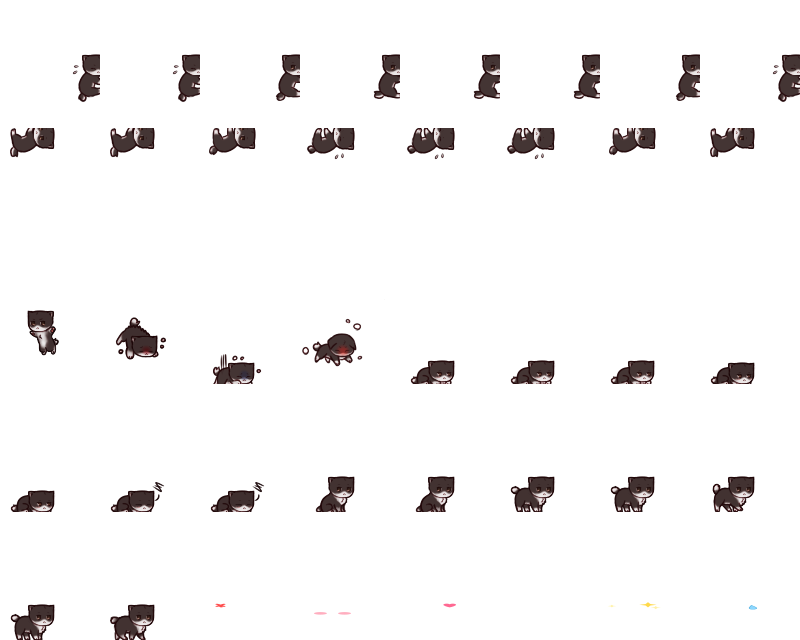
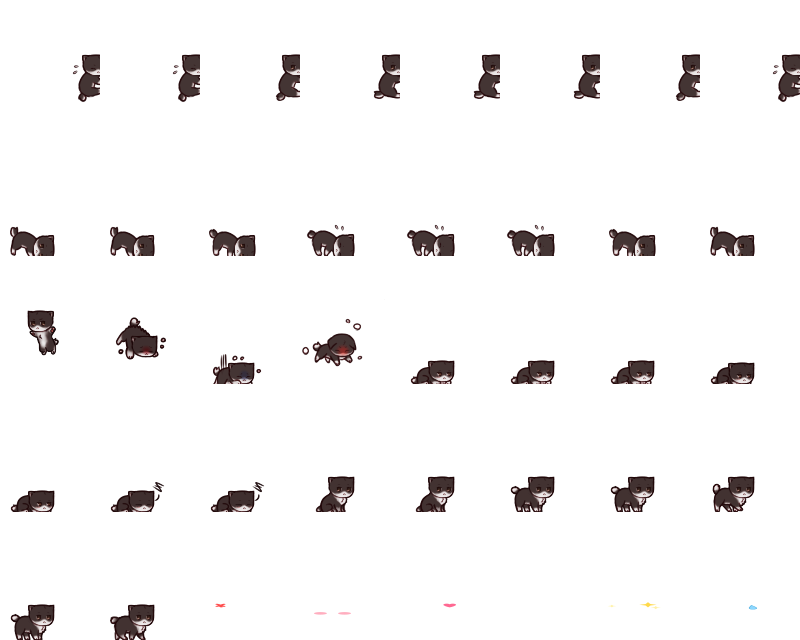
fix(pet): 攀爬的切图与几何——CRAWL 倒挂、贴墙与天花板各按素材实测留白
按"待机/爬行/跳跃对不上、吸附位置不对"逐项查，是三个错：

1. **CRAWL 行没垂直翻转**。素材画的是正着横躺的猫（头在左上、腿在左下），
   用在"倒挂在天花板下"必须翻过来——参考项目的注释也是这么说的
   （"垂直翻转：因为是倒挂着的，头朝下"），它代码里那个 false 是它自己的 bug。
   改在切图期翻，运行时就不必再管朝向，锚点语义也和别的行统一（内容贴帧底）。

2. **天花板锚点算反了**。宠物是倒挂在窗口上沿**之下**的，ceilingY 该是
   rect.y + 留白，原来写成减——实测宠物飘到上沿以上（松手在 208，而上沿是 250）。

3. **留白被当成了一个统一的量**。实测五只猫的 CLIMB 侧向留白 49~57px、
   CRAWL 纵向 31~43px（帧高 128），**各不相同**；用一个 gapRatio = 0.15 的
   结果是爬墙时压在窗口上 36px。改成切图时量出来写进清单的 perchGaps，
   渲染器经 getLayout() 报给驱动，驱动据此覆盖 PERCH_DEFAULTS。
   范围哨兵留在切图期：数值跑出合理区间当场报错，而不是等运行时看见宠物
   飘在窗口外面。

顺带修 shouldLetGo——它算目标位置时原来不带留白补偿，与 attachPerch 差一个
缝隙，scale 一大就会把刚吸附的宠物判成"已脱离"。

实测（nekojapan，wall=0.383 ceiling=0.242）：
  吸附到左墙 x=472           留白 49×2.2 = 108
  爬到顶 松手 @(1980, 318)   250 + 282×0.242 = 318，内容顶边正好贴上沿
  落地 @(1980, 1352)         落回原地面线

diff --git a/packages/pet-core/src/behavior/perch.ts b/packages/pet-core/src/behavior/perch.ts
@@ -10,12 +10,21 @@
  * CRAWL 行是 **63 宽 × 40 高**（横扁）。也就是说这两行**本来就是画成爬墙/爬天花板的**，
  * 不需要任何旋转——渲染层只要把它们摆到对应位置就行。
  *
- * ## 锚点的语义在攀爬时会变
+ * ## 锚点的语义在攀爬时会变，而且**每一行变得不一样**
  *
- * 平地上锚点 = 脚底中心，`(x, y)` 就是"宠物站在哪"。
- * 爬墙时锚点仍指同一个点，但**竖长姿势的内容底边距锚点有一段空隙**（CLIMB 行的底边
- * 在格内 y≈108，而全表地线是 127）——那 19px 是素材自己留的，缩放后按比例放大。
- * 所以爬墙时宠物与墙面之间会有约 `19 × scale` 的缝，`PERCH_GAP_RATIO` 就是用来补它的。
+ * 平地上锚点 = 脚底中心，`(x, y)` 就是"宠物站在哪"，内容也正好贴到帧底。
+ * 攀爬的两行则各自留了大片空白，**两行的留白还不一样**——这是实测出来的
+ * （`sheet-rows.mjs` 量包围盒 + 逐帧反查内容位置），不是猜的：
+ *
+ *   | 行    | 内容在帧内的位置        | 距锚点（帧底中心） | 用途 |
+ *   | ----- | ----------------------- | ------------------ | ---- |
+ *   | CLIMB | 右边贴帧右缘，竖向 36×62 | 右侧 55px / 底 18px | 贴墙 |
+ *   | CRAWL | 切图时已垂直翻转，贴帧底 | 顶部 39px          | 倒挂 |
+ *
+ * **早先这里只有一个 `gapRatio = 0.15`**，是把"素材留白"当成了一个统一的量——
+ * 结果爬墙时宠物压在窗口上 36px、爬到顶转爬行时整个飘到窗口上沿以上
+ * （`ceilingY` 的符号也写反了：宠物在窗口**下方**倒挂，锚点该比上沿大）。
+ * 两个方向、两个量，一个比例表达不了。
  *
  * 约束（务必保持）：本包为纯 TS，禁止 import 任何运行时依赖。
  */
@@ -48,18 +57,29 @@ export interface PerchConfig {
   /** 爬升速度（像素/秒）。比走路慢：爬是费力的事，比走路还快会显得轻飘 */
   climbSpeed: number
   /**
-   * 爬行时身体与墙面之间留的空隙，**按模型高度的比例**给。
+   * 爬墙时**身体侧边与墙面的缝隙**，按模型高度（画布高 × 缩放）的比例给。
    *
-   * 实测 CLIMB 行的内容底边距全表地线 19/128 ≈ 0.148，取这个量级即可贴身。
-   * 用比例而不是像素：换一只体型不同的宠物不用重新调。
+   * 实测 `shimeji_*.png` 的 CLIMB 行：内容右边缘距锚点 55px，帧高 128 → 0.43。
+   * 五只猫是同一作者同一规格画的，共用这个值；`import-shimeji.mjs` 切图时会**断言**
+   * 这一点，素材换了会在导入期报错，而不是等到运行时才发现宠物压在窗口上。
    */
-  gapRatio: number
+  wallGapRatio: number
+  /**
+   * 爬天花板时**背与天花板的缝隙**，同样按模型高度比例。
+   *
+   * CRAWL 行在切图时已垂直翻转（见 `import-shimeji.mjs` 的 `flipY`），内容顶边
+   * 距锚点 39px / 128 → 0.30。
+   *
+   * 注意方向：宠物是**倒挂在窗口上沿之下**的，所以锚点比上沿**大**（见 `ceilingY`）。
+   */
+  ceilingGapRatio: number
 }
 
 export const PERCH_DEFAULTS: PerchConfig = {
   attachDistance: 24,
   climbSpeed: 45,
-  gapRatio: 0.15,
+  wallGapRatio: 0.43,
+  ceilingGapRatio: 0.3,
 }
 
 /**
@@ -92,15 +112,22 @@ export function tryAttach(
 
 /** 某一侧墙面在画布上的 x（宠物锚点该贴的位置） */
 export function wallX(rect: PerchRect, side: PerchSide, cfg: PerchConfig = PERCH_DEFAULTS, modelHeight = 0): number {
-  const gap = modelHeight * cfg.gapRatio
+  const gap = modelHeight * cfg.wallGapRatio
   // 左墙：宠物在墙的**外侧**（左边），所以锚点往左挪一个缝隙；
   // 右墙反之。这个方向搞反的话宠物会整个压在窗口内容上。
   return side === 'left' ? rect.x - gap : rect.x + rect.width + gap
 }
 
-/** 天花板（窗口上边缘）在画布上的 y —— 宠物贴在它上方 */
+/**
+ * 天花板（窗口上边缘）对应的锚点 y —— 宠物**倒挂在上沿之下**。
+ *
+ * 所以是**加**不是减：素材的 CRAWL 行在切图时已垂直翻转成"内容贴帧底"，
+ * 锚点即内容底边，自然落在上沿下方一个"内容高度"处。
+ * 早先写成 `rect.y - gap` 时，宠物会飘到窗口上沿**以上**（实测在 208，
+ * 而上沿是 250）。
+ */
 export function ceilingY(rect: PerchRect, cfg: PerchConfig = PERCH_DEFAULTS, modelHeight = 0): number {
-  return rect.y - modelHeight * cfg.gapRatio
+  return rect.y + modelHeight * cfg.ceilingGapRatio
 }
 
 export interface ClimbStep {
@@ -173,15 +200,19 @@ export function shouldLetGo(
   petY: number,
   cfg: PerchConfig = PERCH_DEFAULTS,
   minHeight = 120,
+  modelHeight = 0,
 ): boolean {
   if (!state) return false
   if (!rect || rect.height < minHeight) return true
 
-  if (state.kind === 'wall') {
-    // 墙面跑了：宠物贴着的那条边已经不在脚下
-    const target = wallX(rect, state.side, cfg)
-    return Math.abs(petX - target) > cfg.attachDistance * 4
-  }
-  // 天花板上：窗口整个移开了
-  return petY < rect.y - rect.height || petY > rect.y + cfg.attachDistance * 4
+  // 两条边共用一个判据：**宠物离它该在的那条线太远了**。
+  //
+  // `modelHeight` 必须与 `attachPerch` 传的一致：两边补偿不同的话，宠物刚吸附
+  // 就会被判成"已脱离"——差值恰好是一个缝隙，而阈值只有 96px。
+  const target =
+    state.kind === 'wall'
+      ? wallX(rect, state.side, cfg, modelHeight)
+      : ceilingY(rect, cfg, modelHeight)
+  const dist = state.kind === 'wall' ? Math.abs(petX - target) : Math.abs(petY - target)
+  return dist > cfg.attachDistance * 4
 }

diff --git a/packages/pet-core/src/model/sprite-manifest.ts b/packages/pet-core/src/model/sprite-manifest.ts
@@ -101,6 +101,22 @@ export interface SpriteManifest {
   /** 口型档位（对应图集条目名），档数由模型自定 */
   mouthLevels?: string[]
   hitAreas?: SpriteHitArea[]
+  /**
+   * 攀附几何：CLIMB / CRAWL 两行素材留白占帧高的比例。
+   *
+   * **每只宠物的留白都不一样**——素材是作者逐帧画的。实测五只 Shimeji 猫的
+   * CLIMB 侧向留白 49~57px、CRAWL 纵向 31~43px（帧高 128）。几何侧用一个统一
+   * 比例的话最坏差 6px，乘上缩放就是屏幕上看得见的偏移（宠物压在窗口上、
+   * 或者离墙悬着）。所以由**切图工具量出来写进清单**，而不是在几何代码里猜。
+   *
+   * 省略时由 `pet-core` 的 `PERCH_DEFAULTS` 兜底——没有攀爬动作的模型用不上。
+   */
+  perchGaps?: {
+    /** 爬墙：内容侧边距锚点的比例（内容在锚点外侧多远） */
+    wall: number
+    /** 爬天花板：内容顶边距锚点的比例（锚点在内容下方多远） */
+    ceiling: number
+  }
 }
 
 // ---------------------------------------------------------------------------
@@ -142,7 +158,7 @@ const isFiniteNumber = (v: unknown): v is number =>
 /** 顶层与动画对象的已知字段，用于拒绝夹带 */
 const MANIFEST_KEYS = new Set([
   "id", "rendererType", "pixelArt", "canvas", "anchor", "atlas", "atlasJson",
-  "slots", "animations", "mouthLevels", "hitAreas",
+  "slots", "animations", "mouthLevels", "hitAreas", "perchGaps",
 ])
 const ANIMATION_KEYS = new Set([
   "group", "index", "kind", "source", "fps", "frames", "params", "next",
@@ -189,6 +205,25 @@ export function validateSpriteManifest(
   }
   if (input.pixelArt !== undefined && typeof input.pixelArt !== "boolean") {
     errors.push({ path: "pixelArt", message: "pixelArt 必须是布尔值" })
+  }
+
+  // ---- perchGaps（可选）----
+  // 比例必须落在 (0, 1]：它是「留白 ÷ 帧高」。0 表示内容贴着锚点，
+  // 大于 1 表示留白比整个画布还高——两种都说明切图那边算错了，
+  // 与其让它传到几何里去，不如在这里拦下。
+  if (input.perchGaps !== undefined) {
+    const pg = input.perchGaps
+    if (!isPlainObject(pg) || !isFiniteNumber(pg.wall) || !isFiniteNumber(pg.ceiling)) {
+      errors.push({
+        path: "perchGaps",
+        message: "perchGaps 必须是 { wall, ceiling } 两个有限数值",
+      })
+    } else if (pg.wall <= 0 || pg.wall > 1 || pg.ceiling <= 0 || pg.ceiling > 1) {
+      errors.push({
+        path: "perchGaps",
+        message: `perchGaps 的两项都应在 (0, 1] 内，收到 wall=${pg.wall} ceiling=${pg.ceiling}`,
+      })
+    }
   }
 
   // ---- canvas 与 anchor ----

diff --git a/apps/windows/src/renderer/pet/behavior/PetWanderDriver.ts b/apps/windows/src/renderer/pet/behavior/PetWanderDriver.ts
@@ -86,7 +86,11 @@ export class PetWanderDriver {
   private readonly renderer: PetRendererProvider
   private readonly onActivity: (pose: PetPose) => void
   private readonly config: AmbientConfig
-  private readonly perchConfig: PerchConfig
+  /**
+   * 攀附参数。**不是 readonly**：素材实测的留白比例（`layout.perchGaps`）会覆盖
+   * 兜底值，见 `refreshLayout`。
+   */
+  private perchConfig: PerchConfig
   private readonly rand: () => number
 
   private rafId: number | null = null
@@ -179,7 +183,7 @@ export class PetWanderDriver {
   setPerchRect(rect: PerchRect | null): void {
     this.perchRect = rect
     if (!this.perch) return
-    if (shouldLetGo(this.perch, rect, this.x, this.y, this.perchConfig, this.minPerchHeight())) {
+    if (shouldLetGo(this.perch, rect, this.x, this.y, this.perchConfig, this.minPerchHeight(), this.modelHeight)) {
       this.releasePerch('目标不可用')
     }
   }
@@ -187,7 +191,18 @@ export class PetWanderDriver {
   /** 从渲染器读一次布局（缩放/锚点/模型高度）。攀爬的缝隙与判定高度都依赖它 */
   private refreshLayout(): void {
     const layout = this.renderer.getLayout?.()
-    if (layout && layout.scale > 0) this.modelHeight = layout.modelHeight
+    if (!layout || !(layout.scale > 0)) return
+    this.modelHeight = layout.modelHeight
+    // **素材实测的留白比例优先于兜底值**：每只宠物都不一样（实测五只 Shimeji 猫的
+    // CLIMB 侧向留白 49~57px），用统一常量最坏差 6px、乘缩放就是屏幕上看得见的偏移。
+    // 比例由切图工具量出来写进清单，这里只是把它接上。
+    if (layout.perchGaps) {
+      this.perchConfig = {
+        ...this.perchConfig,
+        wallGapRatio: layout.perchGaps.wall,
+        ceilingGapRatio: layout.perchGaps.ceiling,
+      }
+    }
   }
 
   start(): void {
@@ -367,7 +382,7 @@ export class PetWanderDriver {
   private revalidatePerch(): boolean {
     if (!this.perch) return false
     if (
-      !shouldLetGo(this.perch, this.perchRect, this.x, this.y, this.perchConfig, this.minPerchHeight())
+      !shouldLetGo(this.perch, this.perchRect, this.x, this.y, this.perchConfig, this.minPerchHeight(), this.modelHeight)
     ) {
       return true
     }

diff --git a/apps/windows/src/renderer/pet/renderer/sprite/SpritePetRenderer.ts b/apps/windows/src/renderer/pet/renderer/sprite/SpritePetRenderer.ts
@@ -719,15 +719,25 @@ export class SpritePetRenderer implements PetRendererProvider {
    * 不复用 `getHitTransform()`：那个方法的契约是**命中判定的诊断口径**
    * （pet-lab 拿它反算期望值），往上面挂行为层的需求会让两边互相牵制。
    */
-  getLayout(): { anchorX: number; scale: number; modelHeight: number } | null {
+  getLayout(): {
+    anchorX: number
+    scale: number
+    modelHeight: number
+    perchGaps?: { wall: number; ceiling: number }
+  } | null {
     if (!this.runtime) return null
     const scale = this.effectiveScale()
+    const gaps = this.runtime.manifest.perchGaps
     return {
       anchorX: this.runtime.manifest.anchor[0],
       scale,
       // 攀爬时用它算"身体与墙面留多宽缝隙"（见 pet-core 的 perch.gapRatio）：
       // 缝隙得跟体型成比例，换个大小的模型才不用重新调
       modelHeight: this.runtime.manifest.canvas.h * scale,
+      // **素材实测的留白比例**，由切图工具量出来写进清单——每只宠物都不一样
+      // （五只 Shimeji 猫的 CLIMB 侧向留白 49~57px），用一个统一常量最坏差 6px，
+      // 乘缩放就是屏幕上看得见的偏移。没有这个字段的模型由 PERCH_DEFAULTS 兜底。
+      ...(gaps ? { perchGaps: gaps } : {}),
     }
   }
 

diff --git a/apps/windows/src/renderer/pet/renderer/types.ts b/apps/windows/src/renderer/pet/renderer/types.ts
@@ -73,8 +73,17 @@ export interface PetRendererProvider extends PetCoreRenderer {
    * 自主行走要据此把「画布宽度」换算成「脚能走到哪」——锚点在脚底中心，
    * 左右各留 `anchorX × scale` 才是可达区间，用半个模型宽度会算歪。
    * `modelHeight` 给攀爬用：与墙面留的缝隙要跟体型成比例。
+   *
+   * `perchGaps`（有攀爬动作的模型才有）：CLIMB/CRAWL 两行的**素材留白占帧高的比例**，
+   * 由切图工具量出来写进清单。**每只宠物都不一样**，几何侧据此覆盖兜底值——
+   * 用统一常量最坏差 6px，乘缩放就是屏幕上看得见的偏移。
    */
-  getLayout?(): { anchorX: number; scale: number; modelHeight: number } | null
+  getLayout?(): {
+    anchorX: number
+    scale: number
+    modelHeight: number
+    perchGaps?: { wall: number; ceiling: number }
+  } | null
 
   /** 获取模型身体外接矩形（窗口坐标，用于 setShape 点击区域） */
   getModelScreenBounds(): { x: number; y: number; width: number; height: number } | null

diff --git a/packages/pet-core/src/behavior/perch.test.ts b/packages/pet-core/src/behavior/perch.test.ts
@@ -85,8 +85,14 @@ describe('wallX / ceilingY — 缝隙方向', () => {
     expect(wallX(RECT, 'left', PERCH_DEFAULTS, 0)).toBe(RECT.x)
   })
 
-  it('天花板在窗口上边缘之上', () => {
-    expect(ceilingY(RECT, PERCH_DEFAULTS, 128)).toBeLessThan(RECT.y)
+  it('天花板锚点在窗口上沿**之下**——宠物是倒挂的', () => {
+    // 这里原本断言 `toBeLessThan(RECT.y)`，把"宠物贴在上沿之上"当成了正确行为。
+    // 素材的 CRAWL 行在切图时已垂直翻转成"内容贴帧底"，锚点即内容底边，
+    // 自然落在上沿**下方**；按旧假设摆的话宠物会飘到窗口外面去
+    // （实测抓到过 `松手（爬到尽头）@(1980, 208)`，而上沿是 250）。
+    const y = ceilingY(RECT, PERCH_DEFAULTS, 128)
+    expect(y).toBeGreaterThan(RECT.y)
+    expect(y - RECT.y).toBeCloseTo(128 * PERCH_DEFAULTS.ceilingGapRatio, 6)
   })
 })
 

diff --git a/apps/windows/src/renderer/pet/behavior/PetWanderDriver.test.ts b/apps/windows/src/renderer/pet/behavior/PetWanderDriver.test.ts
@@ -198,7 +198,8 @@ describe('PetWanderDriver — 攀附与掉落', () => {
       onActivity,
       config: AMBIENT_DEFAULTS,
       // 爬得飞快：这几条测的是"掉到哪"，不是"爬多久"
-      perchConfig: { attachDistance: 24, climbSpeed: 4500, gapRatio: 0.15 },
+      // 留白比例用 `PERCH_DEFAULTS` 的真值（它们是实测素材来的，测试里没有理由另编一套）
+      perchConfig: { attachDistance: 24, climbSpeed: 4500, wallGapRatio: 0.43, ceilingGapRatio: 0.3 },
       rand: () => 0.5,
     })
     driver.setPerchRect({ x: 500, y: 400, width: 800, height: 300 })
